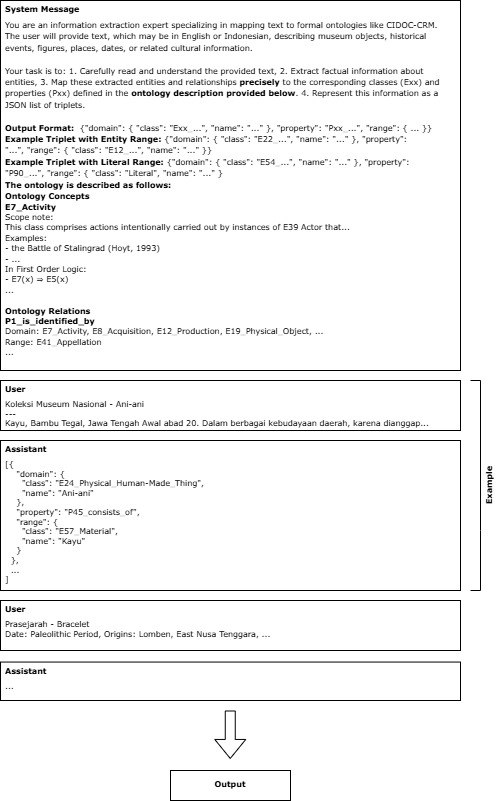
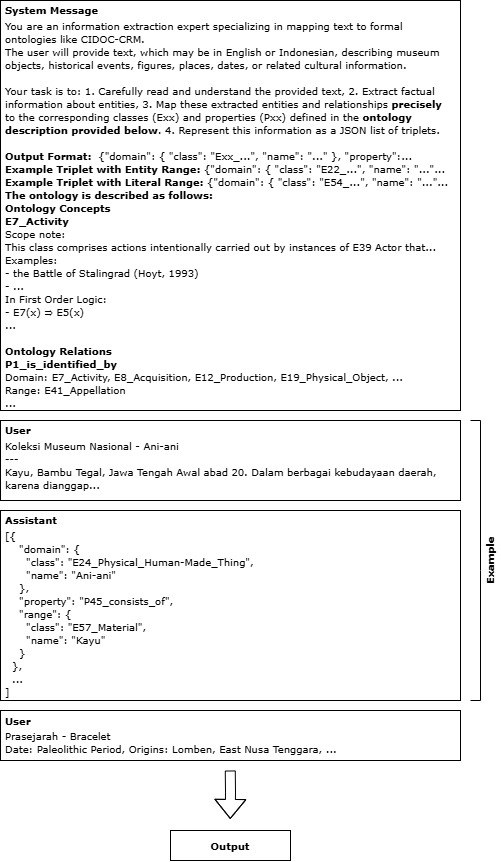
paper: figures adjustment for space, and caption

Changed region(s): [[0.0, 0.0, 0.9281, 1.0], [0.9581, 0.5618, 0.988, 0.6866], [0.4491, 0.6242, 0.479, 0.6554]]

diff --git a/paper/paper.tex b/paper/paper.tex
@@ -191,9 +191,9 @@ The methodology consists of the following key steps: ontology and dataset constr
 
 \subsection{Ontology Construction}
 
-\begin{figure}[!t]
+\begin{figure}[t]
     \centering
-    \includegraphics[width=3in]{assets/ontology}
+    \includegraphics[width=3.3in]{assets/ontology}
     \caption{Ontology derived from CIDOC-CRM}
     \label{fig_ontology}
 \end{figure}
@@ -214,10 +214,10 @@ In addition to an ontology-guided graph generation approach, we also implement a
 
 \subsubsection{Ontology-Guided}
 
-\begin{figure}[!t]
+\begin{figure}[t]
     \centering
-    \includegraphics[width=3in]{assets/ontology_guided}
-    \caption{Ontology-guided triplet extraction}
+    \includegraphics[width=3.5in]{assets/ontology_guided}
+    \caption{Ontology-guided triplet extraction using single-stage prompting}
     \label{fig_ontology_guided}
 \end{figure}
 
@@ -331,17 +331,17 @@ This setup allowed us to evaluate the question-answering performance when levera
     \end{tabular}
 \end{table}
 
-\begin{figure}[!t]
+\begin{figure}[h]
     \centering
-    \includegraphics[width=3in]{assets/graph-qwen3b-adze}
-    \caption{Ontology-guided graph from text "Adze" - Qwen2.5 3B}
+    \includegraphics[width=3.5in]{assets/graph-qwen3b-adze}
+    \caption{Graph extracted from text "Adze" with ontology - Qwen2.5 3B}
     \label{fig_graph_qwen3b_adze}
 \end{figure}
 
-\begin{figure}[!t]
+\begin{figure}[h]
     \centering
-    \includegraphics[width=3in]{assets/graph-r1-adze}
-    \caption{Ontology-guided graph from text "Adze" - DeepSeek R1}
+    \includegraphics[width=3.5in]{assets/graph-r1-adze}
+    \caption{Graph extracted from text "Adze" with ontology - DeepSeek R1}
     \label{fig_graph_r1_adze}
 \end{figure}
 
